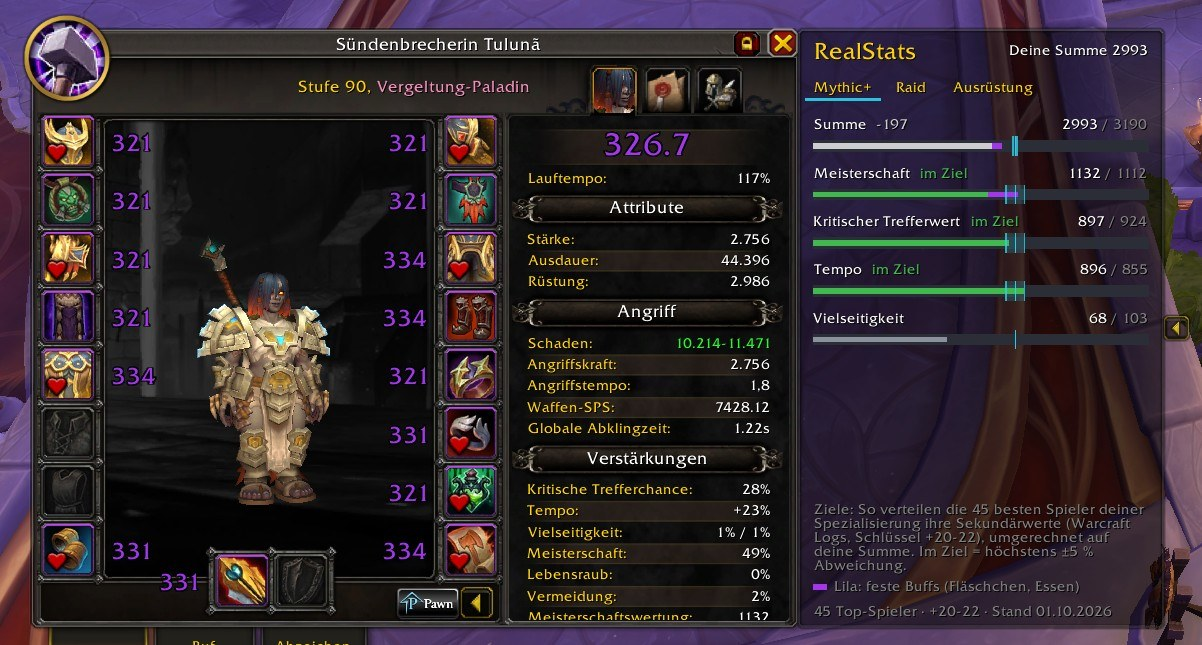
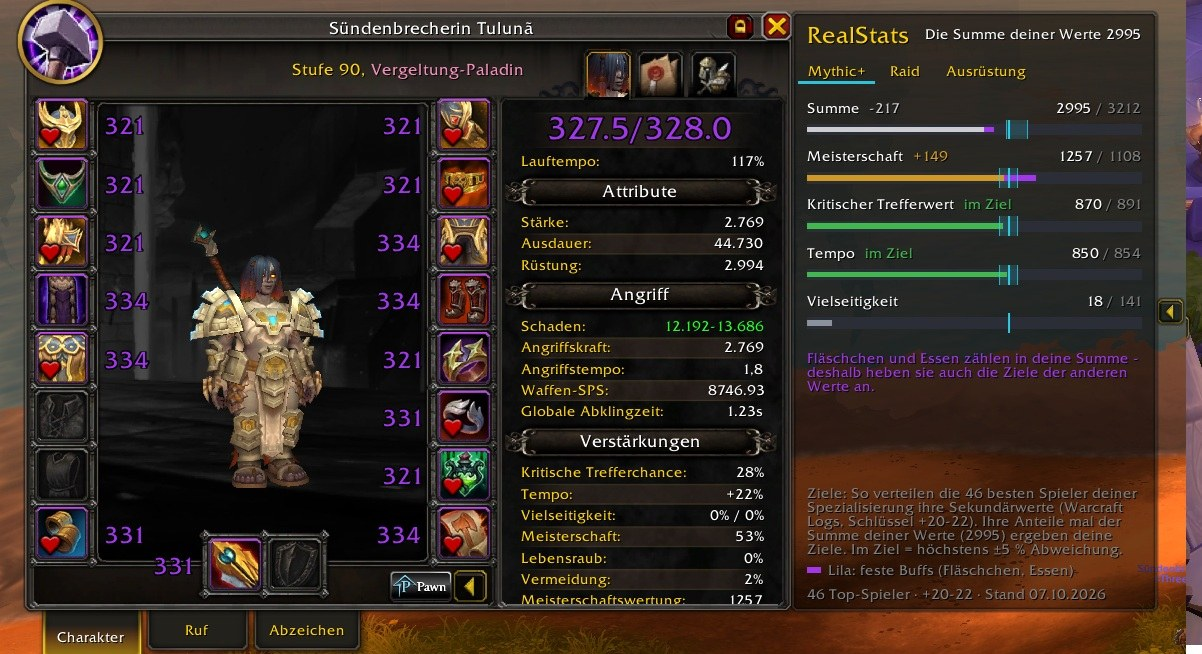
Version 1.0.4: Buffs und Ziele erklaert, Ausruestungs-Reiter aufgeraeumt
Feste Buffs heben die Ziele aller Werte an -- das sagt jetzt eine Zeile unter
den Balken und der Tooltip. Kopfzeile und Erklaertext benennen die Rechnung.
Im Ausruestungs-Reiter laeuft die Liste festgehaltener Plaetze zweispaltig,
der doppelte Hinweis entfaellt und der Rahmen waechst mit dem Text.
Neue Screenshots, Beschreibungen nachgezogen.

diff --git a/README.md b/README.md
@@ -9,7 +9,7 @@ actually distribute theirs. Docks to the right of the character window.
 
 * The targets come from public top logs on Warcraft Logs: how the best players
   of your spec split Critical Strike, Haste, Mastery and Versatility.
-* The split is scaled to **your** stat total, so the target fits your item level.
+* Their shares times **your stat total** give your targets, so they fit your item level.
 * A stat is **in target** when it is within ±5 % of that value (cyan template).
 * A stat the best players barely use (below 10 % share) only gets a guide line.
 * The **Total** row compares your stat sum with the best players. The gap is
@@ -38,6 +38,13 @@ specialization. All three start empty, which is the careful setting:
 * **Items with lower item level** – without this tick every swap keeps or
   raises your item level, so no primary stat is lost for a nicer split.
 
+### Keep single slots in place
+
+Pick any slot — helmet, a ring, your weapon — and the optimizer leaves it alone
+and balances over the remaining ones. Useful for a freshly socketed piece, a
+favourite look or anything you simply do not want touched. Saved per character
+and specialization, like the check boxes.
+
 ### Back to what you wore
 
 Next to the set button: **Back to previous** re-equips what you wore before the
@@ -52,7 +59,17 @@ Flasks and food are part of your stats, just like for the best players. Their
 share appears as a purple piece at the end of your bar, so you can see what
 comes from your gear.
 
-![RealStats: tooltip with gear share, flask and the way back into the target range](https://raw.githubusercontent.com/tulunagaming/RealStats/main/docs/screenshot-raid-tooltip.jpg)
+Because they count towards your stat total, they also raise the targets of the
+**other** stats — a mastery flask lifts your crit target as well. RealStats says
+so right under the bars whenever a fixed buff is active, so the numbers never
+look like a miscalculation.
+
+![RealStats: tooltip above the target - how much to give away](https://raw.githubusercontent.com/tulunagaming/RealStats/main/docs/screenshot-tooltip-above.jpg)
+
+![RealStats: tooltip below the target - how much is missing](https://raw.githubusercontent.com/tulunagaming/RealStats/main/docs/screenshot-tooltip-below.jpg)
+
+The tooltip works both ways: above the range it tells you how much to give
+away, below it how much is missing.
 
 ## Performance & stability
 

diff --git a/CHANGELOG.md b/CHANGELOG.md
@@ -1,5 +1,20 @@
 # Changelog
 
+## 1.0.4
+
+* **Buffs und Ziele erklaert.** Feste Buffs zaehlen in die Summe und heben damit
+  auch die Ziele der anderen Werte an. Das stand bisher nirgends und sah nach
+  einem Rechenfehler aus. Jetzt sagt es eine Zeile unter den Balken (nur wenn
+  ein Buff wirkt) und der Tooltip jedes Werts.
+* Kopfzeile und Erklaertext benennen die Rechnung: "Die Summe deiner Werte" und
+  "Ihre Anteile mal der Summe deiner Werte (3000) ergeben deine Ziele".
+* Reiter Ausruestung: Die Liste der festgehaltenen Plaetze laeuft in zwei
+  Spalten statt einer, der Hinweis "Berechnen prueft ..." entfaellt (der
+  Regeltext darunter sagt dasselbe), und der Rahmen waechst jetzt mit dem Text
+  mit - nichts ueberlagert sich mehr, egal wie viele Plaetze festgehalten sind.
+* Nachgetragen: Einzelne Ausruestungsplaetze lassen sich festhalten, der
+  Optimierer gleicht ueber die uebrigen aus (war bereits in 1.0.3 enthalten).
+
 ## 1.0.3
 
 * Zielwerte vom 07.10.2026: 80 Abrufe ueber alle Spezialisierungen in Mythic+ und Raid, 7830 ausgewertete Spieler (kleinste Gruppe 33).
